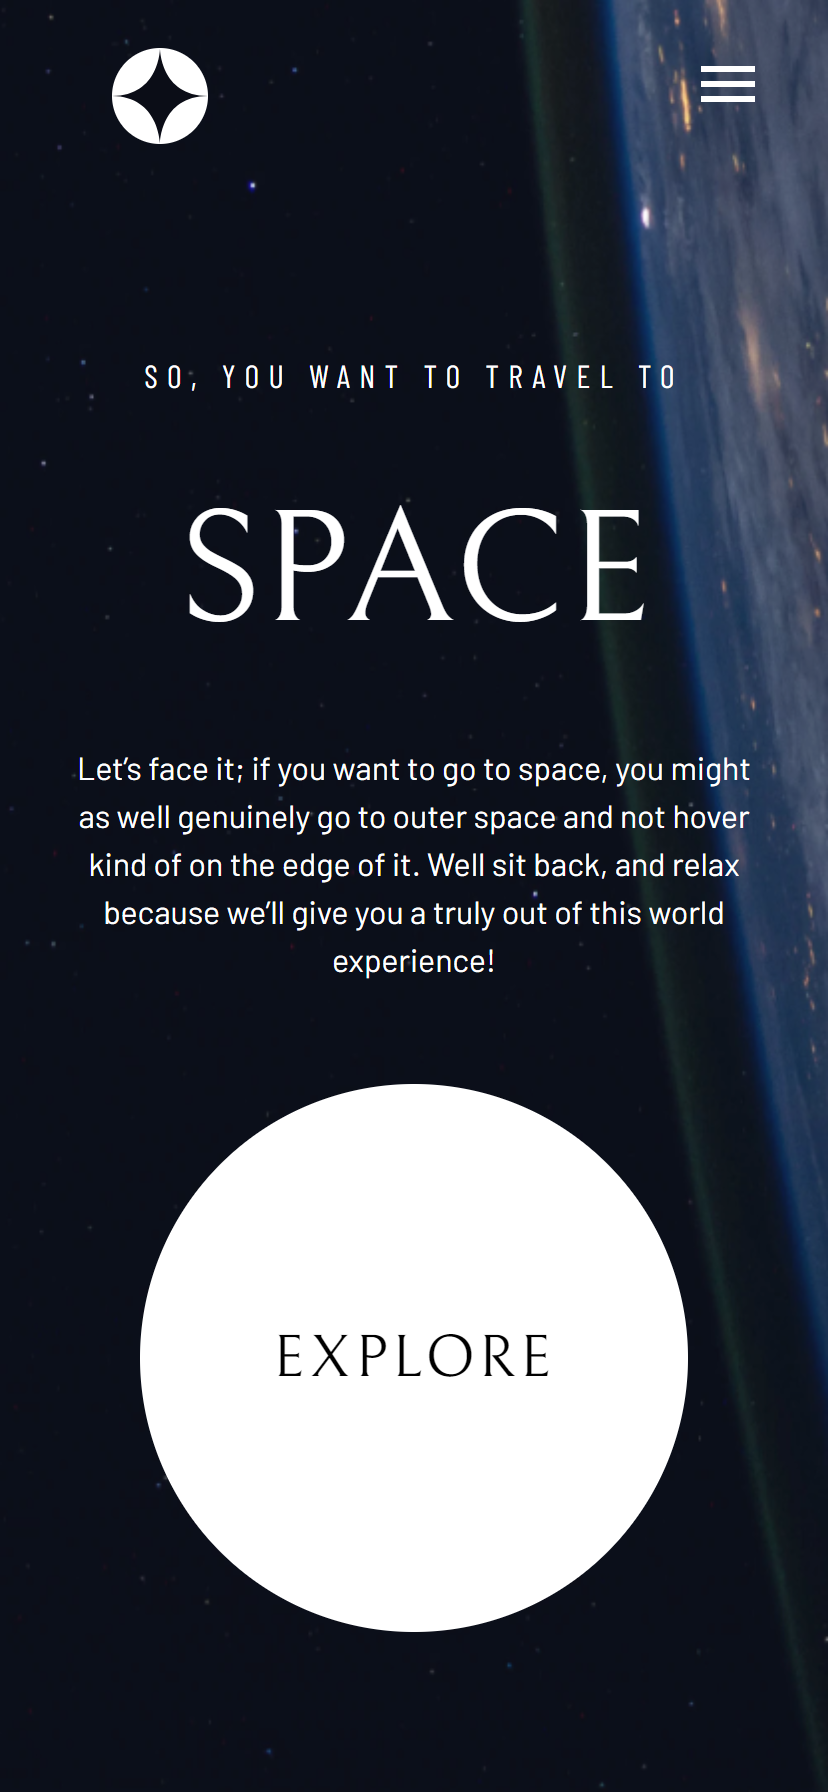
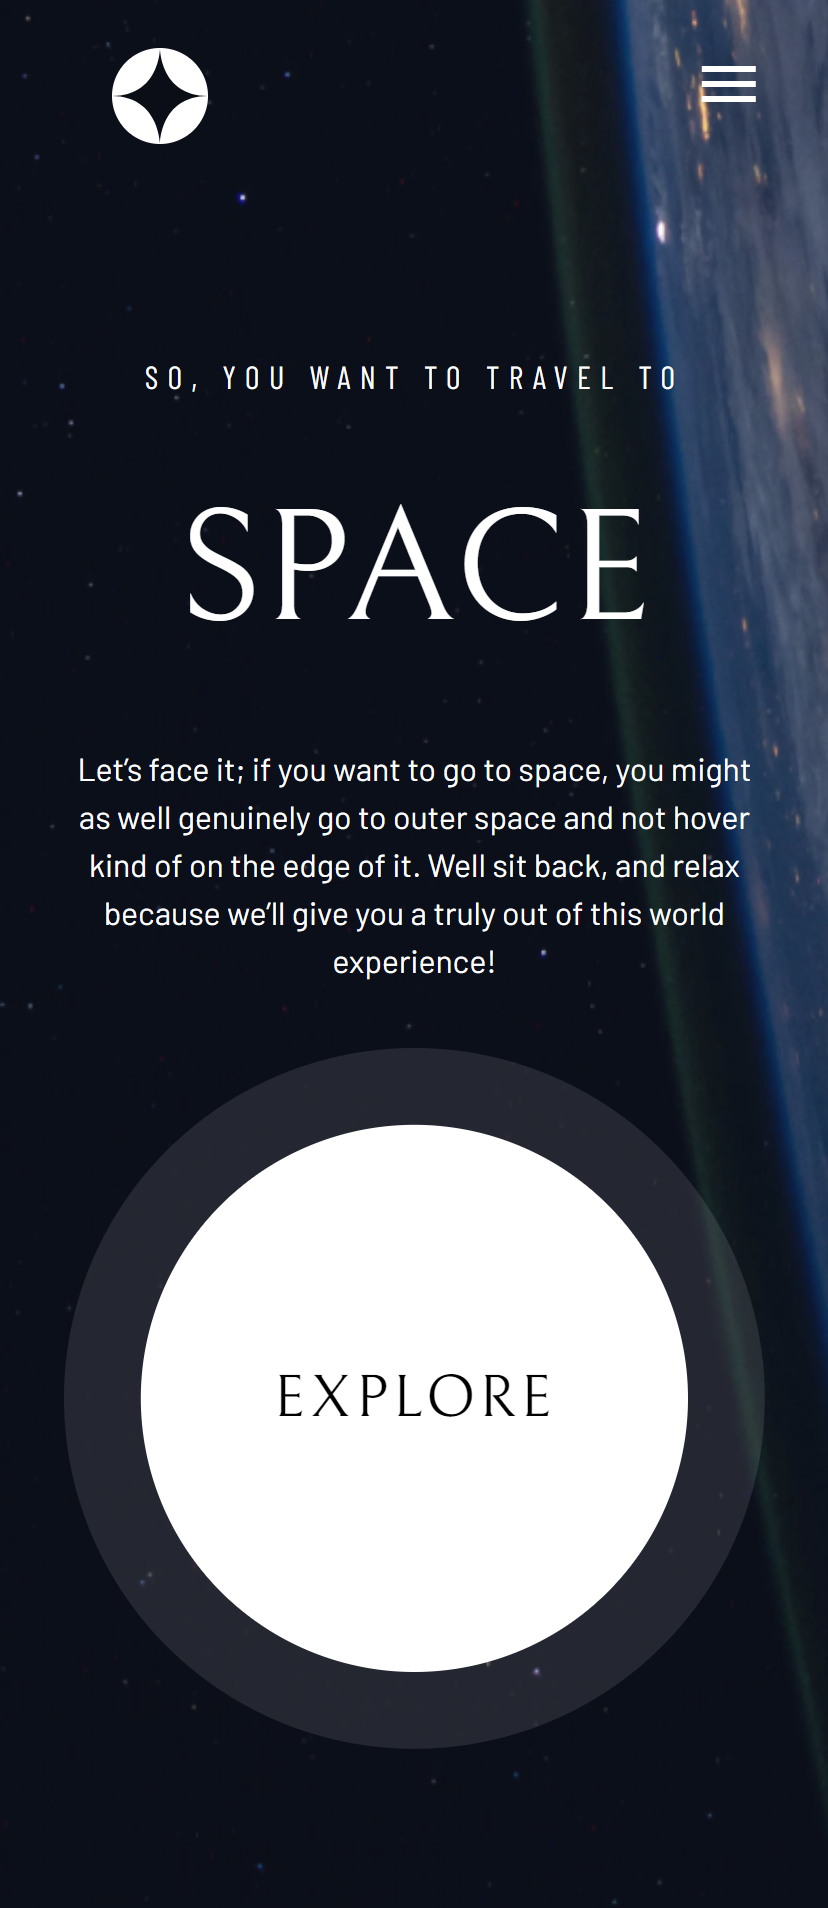
modified home page explore button and updated readme home page images

diff --git a/src/app/page.jsx b/src/app/page.jsx
@@ -17,7 +17,7 @@ export default function Home() {
           experience!
         </p>
       </div>
-      <div className="max-h-[400px] max-w-[400px]">
+      <div className="h-[400px] w-[400px] max-sm:h-[350px] max-sm:w-[350px]">
         <div className="flex items-center justify-center h-full w-full rounded-full bg-white/10">
           <Link
             href="/destination"
